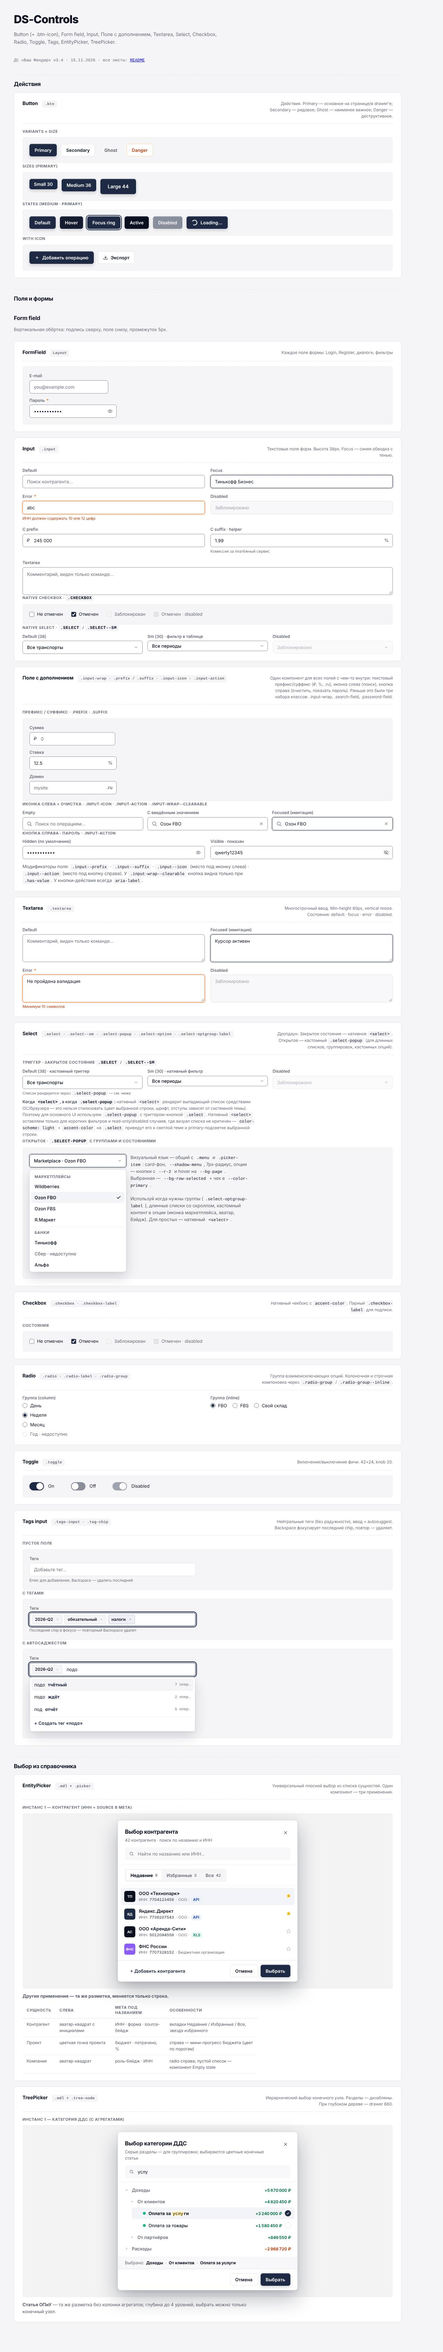
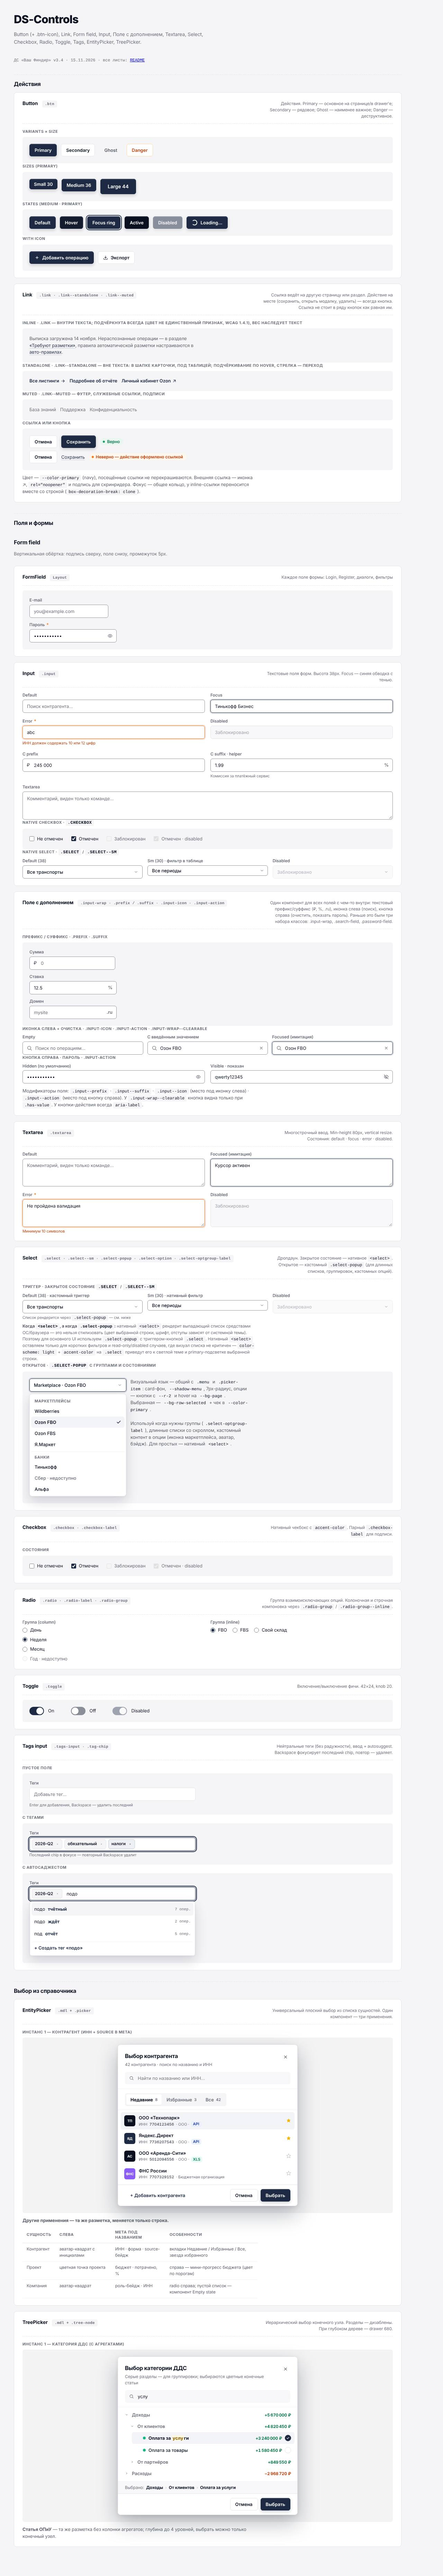
docs(ds): ДС v3.4 — компонент Link (Decision 47)
Листы v3 перегенерированы из UI Kit: Link в трёх видах (inline,
standalone, muted), правило «ссылка — навигация, кнопка — действие»,
ссылка в Focus показана внутри текста. API Link — в плане §3.1.

Claude-Session: https://claude.ai/code/session_01NoXPJxpo1WMHZBkY4b1S7b

diff --git a/docs/design-system/v3/sheets/DS-Controls.html b/docs/design-system/v3/sheets/DS-Controls.html
@@ -18,7 +18,7 @@
 <body>
 <main class="main">
 <h1 class="page-h1">DS-Controls</h1>
-<p class="page-sub">Button (+ .btn-icon), Form field, Input, Поле с дополнением, Textarea, Select, Checkbox, Radio, Toggle, Tags, EntityPicker, TreePicker.</p>
+<p class="page-sub">Button (+ .btn-icon), Link, Form field, Input, Поле с дополнением, Textarea, Select, Checkbox, Radio, Toggle, Tags, EntityPicker, TreePicker.</p>
 <div class="page-meta">ДС «Ваш Финдир» v3.4 · 15.11.2026 · все листы: <a href="../README.md">README</a></div>
 <h3 class="sub-h cat-h">Действия</h3>
 <div class="cb" id="button">
@@ -60,6 +60,34 @@
             Экспорт
           </button>
 </div>
+</div><div class="cb" id="link">
+<div class="cb-head">
+<span class="cb-name">Link</span>
+<span class="cb-tag">.link · .link--standalone · .link--muted</span>
+<span class="cb-when">Ссылка ведёт на другую страницу или раздел. Действие на месте (сохранить, открыть модалку, удалить) — всегда кнопка. Ссылка не стоит в ряду кнопок как равная им.</span>
+</div>
+<span class="demo-label">Inline · .link — внутри текста; подчёркнута всегда (цвет не единственный признак, WCAG 1.4.1), вес наследует текст</span>
+<div class="demo demo--column" style="align-items:flex-start;">
+<p class="link-text">Выписка загружена 14 ноября. Нераспознанные операции — в разделе <a class="link" href="#link">«Требуют разметки»</a>, правила автоматической разметки настраиваются в <a class="link" href="#link">авто-правилах</a>.</p>
+</div>
+<span class="demo-label">Standalone · .link--standalone — вне текста: в шапке карточки, под таблицей; подчёркивание по hover, стрелка — переход</span>
+<div class="demo">
+<a class="link link--standalone" href="#link">Все листинги <svg aria-hidden="true" viewBox="0 0 24 24" fill="none" stroke="currentColor" stroke-width="2" stroke-linecap="round" stroke-linejoin="round"><path d="M5 12h14M13 6l6 6-6 6"/></svg></a>
+<a class="link link--standalone" href="#link">Подробнее об отчёте</a>
+<a class="link link--standalone" href="#link" target="_blank" rel="noopener">Личный кабинет Ozon <svg aria-hidden="true" viewBox="0 0 24 24" fill="none" stroke="currentColor" stroke-width="2" stroke-linecap="round" stroke-linejoin="round"><path d="M7 17 17 7M8 7h9v9"/></svg><span class="u-sr-only">(откроется в новой вкладке)</span></a>
+</div>
+<span class="demo-label">Muted · .link--muted — футер, служебные ссылки, подписи</span>
+<div class="demo">
+<a class="link link--muted" href="#link">База знаний</a>
+<a class="link link--muted" href="#link">Поддержка</a>
+<a class="link link--muted" href="#link">Конфиденциальность</a>
+</div>
+<span class="demo-label">Ссылка или кнопка</span>
+<div class="demo demo--column" style="align-items:flex-start; gap:var(--s-2);">
+<div style="display:flex; align-items:center; gap:var(--s-3);"><button class="btn btn-md btn-secondary" type="button">Отмена</button><button class="btn btn-md btn-primary" type="button">Сохранить</button><span class="status status--success"><span class="dot"></span>Верно</span></div>
+<div style="display:flex; align-items:center; gap:var(--s-3);"><button class="btn btn-md btn-secondary" type="button">Отмена</button><a class="link" href="#link">Сохранить</a><span class="status status--danger"><span class="dot"></span>Неверно — действие оформлено ссылкой</span></div>
+</div>
+<div class="cb-note" style="margin-top:var(--s-3);">Цвет — <code class="code-inline">--color-primary</code> (navy), посещённые ссылки не перекрашиваются. Внешняя ссылка — иконка ↗, <code class="code-inline">rel="noopener"</code> и подпись для скринридера. Фокус — общее кольцо, у inline-ссылки переносится вместе со строкой (<code class="code-inline">box-decoration-break: clone</code>).</div>
 </div><h3 class="sub-h cat-h">Поля и формы</h3>
 <h3 class="sub-h" id="form-field">Form field</h3>
 <div class="section-sub">Вертикальная обёртка: подпись сверху, поле снизу, промежуток 5px.</div>

diff --git a/docs/design-system/v3/sheets/DS-Tokens.html b/docs/design-system/v3/sheets/DS-Tokens.html
@@ -246,15 +246,16 @@
 <span class="cb-tag">:focus-visible · .is-focus</span>
 <span class="cb-when">Один стиль на весь продукт. <code class="code-inline">.is-focus</code> — только для документации: показывает состояние без нажатия Tab.</span>
 </div>
-<span class="demo-label">Кнопки, ссылки, табы, chip — outline 2px · offset 2px · --focus-ring-color</span>
+<span class="demo-label">Кнопки, табы, chip — outline 2px · offset 2px · --focus-ring-color</span>
 <div class="demo">
 <button class="btn btn-md btn-primary is-focus" type="button">Primary</button>
 <button class="btn btn-md btn-secondary is-focus" type="button">Secondary</button>
 <button class="btn btn-md btn-ghost is-focus" type="button">Ghost</button>
-<a class="link is-focus" href="#focus">Ссылка</a>
 <button class="chip chip--filter is-focus" type="button">Chip</button>
 <div class="tabs"><button class="tab is-active" type="button">Все</button><button class="tab is-focus" type="button">Поступления</button></div>
 </div>
+<span class="demo-label">Ссылка в тексте — то же кольцо, переносится вместе со строкой</span>
+<div class="demo"><p class="link-text">Подробности — в <a class="link is-focus" href="#focus">справке по разметке операций</a>.</p></div>
 <span class="demo-label">Поля — граница primary + мягкое кольцо (своё правило, outline не используется)</span>
 <div class="demo">
 <input aria-label="Пример поля в фокусе" class="input is-focus" style="max-width:260px" value="Тинькофф Бизнес"/>
@@ -264,10 +265,10 @@
 <div class="demo">
 <button class="btn btn-md btn-primary" type="button">Сохранить</button>
 <button class="btn btn-md btn-secondary" type="button">Отмена</button>
-<a class="link" href="#focus">Подробнее</a>
 <button class="chip chip--filter" type="button">Фильтр</button>
 <input aria-label="Живое поле" class="input" placeholder="Поле ввода" style="max-width:220px"/>
 </div>
+<div class="demo"><p class="link-text">Ссылка в тексте тоже получает фокус: <a class="link" href="#focus">правила разметки операций</a>.</p></div>
 <div class="cb-note" style="margin-top:var(--s-3);">Правила: никогда не писать <code class="code-inline">outline: none</code> без замены · кольцо контрастирует с фоном ≥3:1 (поэтому сплошной navy, а не полупрозрачное свечение, как было в v3.1 у <code class="code-inline">.is-focus</code>) · offset 2px, чтобы кольцо не сливалось с заливкой кнопки · фокус не красный и не оранжевый — эти цвета заняты ошибками.</div>
 </div>
 <h3 class="sub-h" id="grid">Grid</h3>

diff --git a/docs/design-system/v3/sheets/ds-kit.css b/docs/design-system/v3/sheets/ds-kit.css
@@ -2703,11 +2703,32 @@ mark, .hl { background: var(--highlight-bg); color: var(--highlight-text); borde
 .theme-switch-group button:hover { color: var(--text-strong); }
 .theme-switch-group button[aria-pressed="true"] { background: var(--bg-card); color: var(--text-strong); box-shadow: var(--shadow-sm); }
 
-/* Текстовая ссылка (в v3.2 и раньше отдельного стиля не было — браузерный синий) */
-.link { color: var(--color-primary); font-weight: var(--fw-semibold); text-decoration: underline; text-decoration-thickness: 1px;
-  text-underline-offset: 3px; text-decoration-color: var(--color-primary-border); border-radius: var(--r-xs);
-  transition: color var(--dur-fast), text-decoration-color var(--dur-fast); }
+.u-sr-only { position:absolute; width:1px; height:1px; padding:0; margin:-1px; overflow:hidden; clip:rect(0,0,0,0); white-space:nowrap; border:0; }
+/* Link — навигация (ведёт на страницу/раздел). Действие на месте — кнопка, не ссылка. Decision 47 */
+.link {
+  color: var(--color-primary); font-weight: inherit;
+  text-decoration: underline; text-decoration-thickness: 1px; text-underline-offset: 3px;
+  text-decoration-color: var(--color-primary-border);
+  border-radius: var(--r-xs);
+  transition: color var(--dur-fast), text-decoration-color var(--dur-fast);
+}
+.link:visited { color: var(--color-primary); }
 .link:hover { color: var(--color-primary-hover); text-decoration-color: currentColor; }
+.link:focus-visible, .link.is-focus { outline-offset: 1px; box-decoration-break: clone; -webkit-box-decoration-break: clone; }
+/* Самостоятельная ссылка: «Все листинги →», «Подробнее» — вне текста, без подчёркивания до hover */
+.link--standalone {
+  display: inline-flex; align-items: center; gap: var(--s-1);
+  font-size: var(--fs-md); font-weight: var(--fw-semibold); line-height: var(--lh-snug);
+  text-decoration: none;
+}
+.link--standalone:hover { text-decoration: underline; }
+.link--standalone svg { width: 14px; height: 14px; flex-shrink: 0; transition: transform var(--dur-fast) var(--ease-standard); }
+.link--standalone:hover svg { transform: translateX(2px); }
+/* Служебная ссылка: футер, подписи, мета */
+.link--muted { color: var(--text-tertiary); text-decoration: none; }
+.link--muted:visited { color: var(--text-tertiary); }
+.link--muted:hover { color: var(--text-strong); text-decoration: underline; }
+.link-text { font-size: var(--fs-md); color: var(--text-secondary); line-height: var(--lh-base); max-width: 60ch; margin: 0; }
 
 /* v3.4 — свёрнутые архивы */
 .dec-archive, .cl-archive { margin-top: var(--s-4); border: 1px dashed var(--border); border-radius: var(--r-lg); padding: var(--s-3) var(--s-4); background: var(--bg-subtle); }

diff --git a/docs/design-system/v3/sheets/DS-Decisions.html b/docs/design-system/v3/sheets/DS-Decisions.html
@@ -350,6 +350,14 @@
             <div class="decision-why">Разработка ведётся на Tailwind, Tabler-пагинация теряет смысл. Компонент кита уже построен на токенах и поддерживает тёмную тему.</div>
           </div>
         </div>
+        <div class="decision-item">
+          <div class="decision-num">47</div>
+          <div class="decision-body">
+            <div class="decision-title">Ссылки: три вида и граница со кнопкой</div>
+            <div class="decision-value">.link (в тексте, подчёркнута) · .link--standalone (вне текста, подчёркивание по hover) · .link--muted (служебная)</div>
+            <div class="decision-why">В v3.3 ссылка была одним жирным подчёркнутым стилем и в ките стояла в ряду кнопок — выглядела чужеродно. Ссылка — навигация, кнопка — действие; ссылка не ставится в ряд кнопок как равная. Вес ссылки в тексте наследуется, подчёркивание обязательно (цвет не единственный признак).</div>
+          </div>
+        </div>
         <details class="dec-archive">
           <summary>Архив решений — исполнены или заменены · 6</summary>
 <div class="decision-item">
@@ -415,6 +423,7 @@
           <li>🔗 Табы в пикерах — канонические <code class="code-inline">.tabs</code> вместо <code class="code-inline">.picker-tab</code>.</li>
           <li>🗂 App Shell и Page scaffold перенесены в Patterns. EntityPicker и TreePicker — по одному примеру + таблица отличий.</li>
           <li>🗂 Decisions 3, 19, 24, 29, 30, 40 — в архив; 23 и 28 обновлены. Changelog: на виду три последние версии.</li>
+          <li>➕ Компонент <b>Link</b>: <code class="code-inline">.link</code> / <code class="code-inline">.link--standalone</code> / <code class="code-inline">.link--muted</code>, правило «ссылка — навигация, кнопка — действие» (Decision 47). В Focus ссылка показана внутри текста, а не в ряду кнопок.</li>
           <li>📄 Удалена дублирующая страница <code class="code-inline">uploads/ui-kit-v2.6.html</code>; v2.6 оставлена как архив.</li>
         </ul>
       </div>
